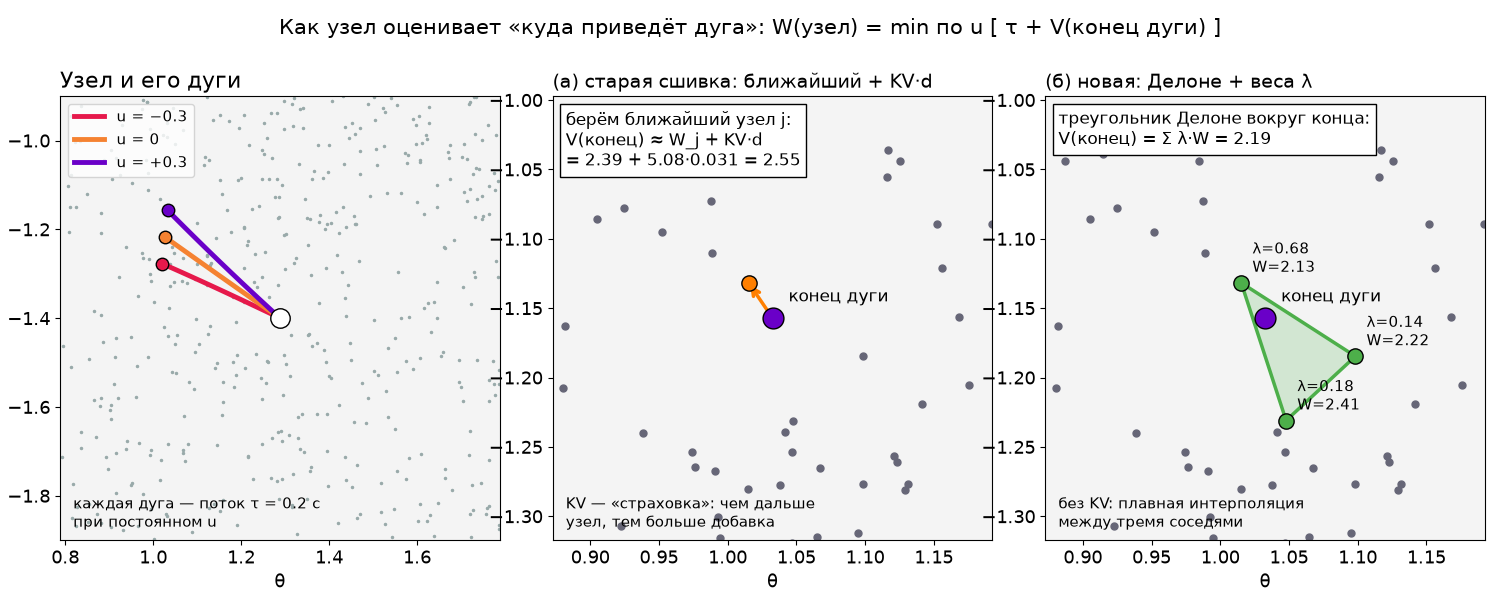
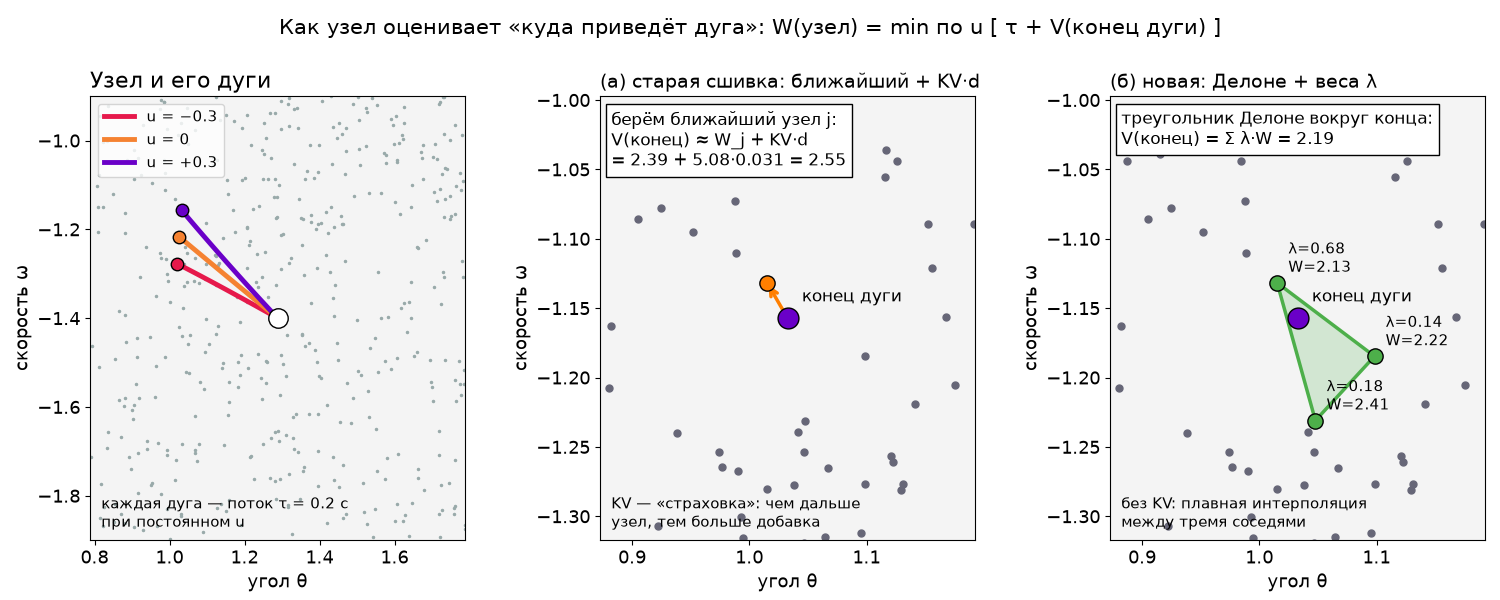
[hub-v5chain-worker-c11]: правка method_node (подписи осей), пояснение белого в vi/agent
Claude-Session: https://claude.ai/code/session_01PjZPHWURiKk4PnZsdb35p8

diff --git a/spores_2/v5chain/reports/viz_c11/s2_node.py b/spores_2/v5chain/reports/viz_c11/s2_node.py
@@ -4,9 +4,9 @@ S = get_S(); P = S['P']; kv = S['kv']; ip = S['ip']; Wn, Wd = S['Wn'], S['Wd']
 i = int(np.argmin(np.hypot(P[:, 0] - 1.3, P[:, 1] + 1.4))); x = P[i]
 E, OK, GL = edges(x[None]); E = E[0]; best = int(np.argmin([TAU + (S['tree'].query(emb(wrap(e)), k=9)[0].min()) for e in E]))
 sb = int(np.argmin([TAU + Pol(S, 'dl').vh(e)[0] for e in E])); e = wrap(E[sb]); w = .16
-frames = []; fig, axs = plt.subplots(1, 3, figsize=(15, 6)); fig.subplots_adjust(left=.04, right=.99, top=.84, bottom=.1, wspace=.12)
+frames = []; fig, axs = plt.subplots(1, 3, figsize=(15, 6)); fig.subplots_adjust(left=.06, right=.99, top=.84, bottom=.1, wspace=.36)
 def ctx(ax, stage):
-    ax.clear(); ax.set_xlim(x[0] - .5, x[0] + .5); ax.set_ylim(x[1] - .5, x[1] + .5); ax.set_facecolor('#f4f4f4'); ax.set_xlabel('θ'); ax.set_ylabel('ω')
+    ax.clear(); ax.set_xlim(x[0] - .5, x[0] + .5); ax.set_ylim(x[1] - .5, x[1] + .5); ax.set_facecolor('#f4f4f4'); ax.set_xlabel('угол θ'); ax.set_ylabel('скорость ω')
     m = (np.abs(P[:, 0] - x[0]) < .5) & (np.abs(P[:, 1] - x[1]) < .5); ax.plot(P[m, 0], P[m, 1], '.', color='#9aa', ms=3)
     ax.plot(*x, 'o', color='w', mec='k', ms=14, zorder=8); ax.set_title('Узел и его дуги', loc='left')
     for s in range(min(3, stage)):
@@ -14,7 +14,7 @@ def ctx(ax, stage):
     if stage >= 1: ax.legend(loc='upper left', fontsize=11)
     ax.text(.03, .03, 'каждая дуга — поток τ = 0.2 с\nпри постоянном u', transform=ax.transAxes, fontsize=11)
 def zoom(ax, title):
-    ax.clear(); ax.set_xlim(e[0] - w, e[0] + w); ax.set_ylim(e[1] - w, e[1] + w); ax.set_facecolor('#f4f4f4'); ax.set_xlabel('θ'); ax.set_title(title, loc='left', fontsize=14)
+    ax.clear(); ax.set_xlim(e[0] - w, e[0] + w); ax.set_ylim(e[1] - w, e[1] + w); ax.set_facecolor('#f4f4f4'); ax.set_xlabel('угол θ'); ax.set_ylabel('скорость ω'); ax.set_title(title, loc='left', fontsize=14)
     m = (np.abs(P[:, 0] - e[0]) < w + .05) & (np.abs(P[:, 1] - e[1]) < w + .05); ax.plot(P[m, 0], P[m, 1], 'o', color='#667', ms=5)
     ax.plot(*e, 'o', color=COL[sb], mec='k', ms=15, zorder=9); ax.text(e[0] + .008, e[1] + .012, ' конец дуги', fontsize=12, zorder=10)
 dq, jq = S['tree'].query(emb(e[None]), k=9); jq = jq[0]; dq = dq[0]; jn = jq[0]

diff --git a/spores_2/v5chain/reports/viz_c11/s3_vi.py b/spores_2/v5chain/reports/viz_c11/s3_vi.py
@@ -15,6 +15,6 @@ for k, h in enumerate(sel):
         gx, gy, V = grid_V(S, 'dl'); ax.contour(gx, gy, V, levels=np.arange(1, 14, 1.), colors='k', linewidths=.6, zorder=6); tt = 'Готово: итоговая V с линиями уровня (каждые 1 с)'
     else: tt = 'Итерация %d: узлы, откуда цель уже достижима, получили оценку W' % it
     ax.set_title(tt, loc='left'); fig.colorbar(sc, cax=cax).set_label('W — время до цели, с')
-    ax.text(.02, .96, 'W(узел) = min по u [ τ + W(конец дуги) ], цель: W = 0', transform=ax.transAxes, va='top', fontsize=12, bbox=dict(fc='w', ec='k', alpha=.9), zorder=20)
+    ax.text(.02, .96, 'W(узел) = min по u [ τ + W(конец дуги) ], цель: W = 0\nбелое/серое — W не определена (цель недостижима)', transform=ax.transAxes, va='top', fontsize=12, bbox=dict(fc='w', ec='k', alpha=.9), zorder=20)
     frames.append(fig_to_img(fig))
 frames[0].save('/tmp/c11_s3_first.png'); frames[-1].save('/tmp/c11_s3_last.png'); save_gif(frames, '/tmp/c11_method_vi.gif', fps=6, hold_last=14)

diff --git a/spores_2/v5chain/reports/viz_c11/s4_agent.py b/spores_2/v5chain/reports/viz_c11/s4_agent.py
@@ -30,7 +30,7 @@ for k in range(nfr + 1):
         axs[0].plot([], [], 'D', color='magenta', mec='k', label='старт'); axs[0].legend(loc='lower left', fontsize=11, framealpha=.9).set_zorder(30)
     else:
         axs[0].legend(handles=[plt.Line2D([], [], color=COL[s], lw=3, label=UNAME[s]) for s in range(3)], loc='lower left', fontsize=11, framealpha=.9).set_zorder(30)
-    fig.suptitle('Агент пробует 3 дуги, берёт ту, где τ + V(конец) меньше.  Фон = V: светлое — близко к цели, тёмное — далеко', fontsize=13, y=.97)
+    fig.suptitle('Агент пробует 3 дуги, берёт ту, где τ + V(конец) меньше.  Фон = V: светлое — близко, тёмное — далеко, белое — V не определена', fontsize=13, y=.97)
     frames.append(fig_to_img(fig))
 frames[0].save('/tmp/c11_s4_first_%d.png' % i0)
 save_gif(frames, '/tmp/c11_method_agent_%d.gif' % i0, fps=5, hold_last=12)
